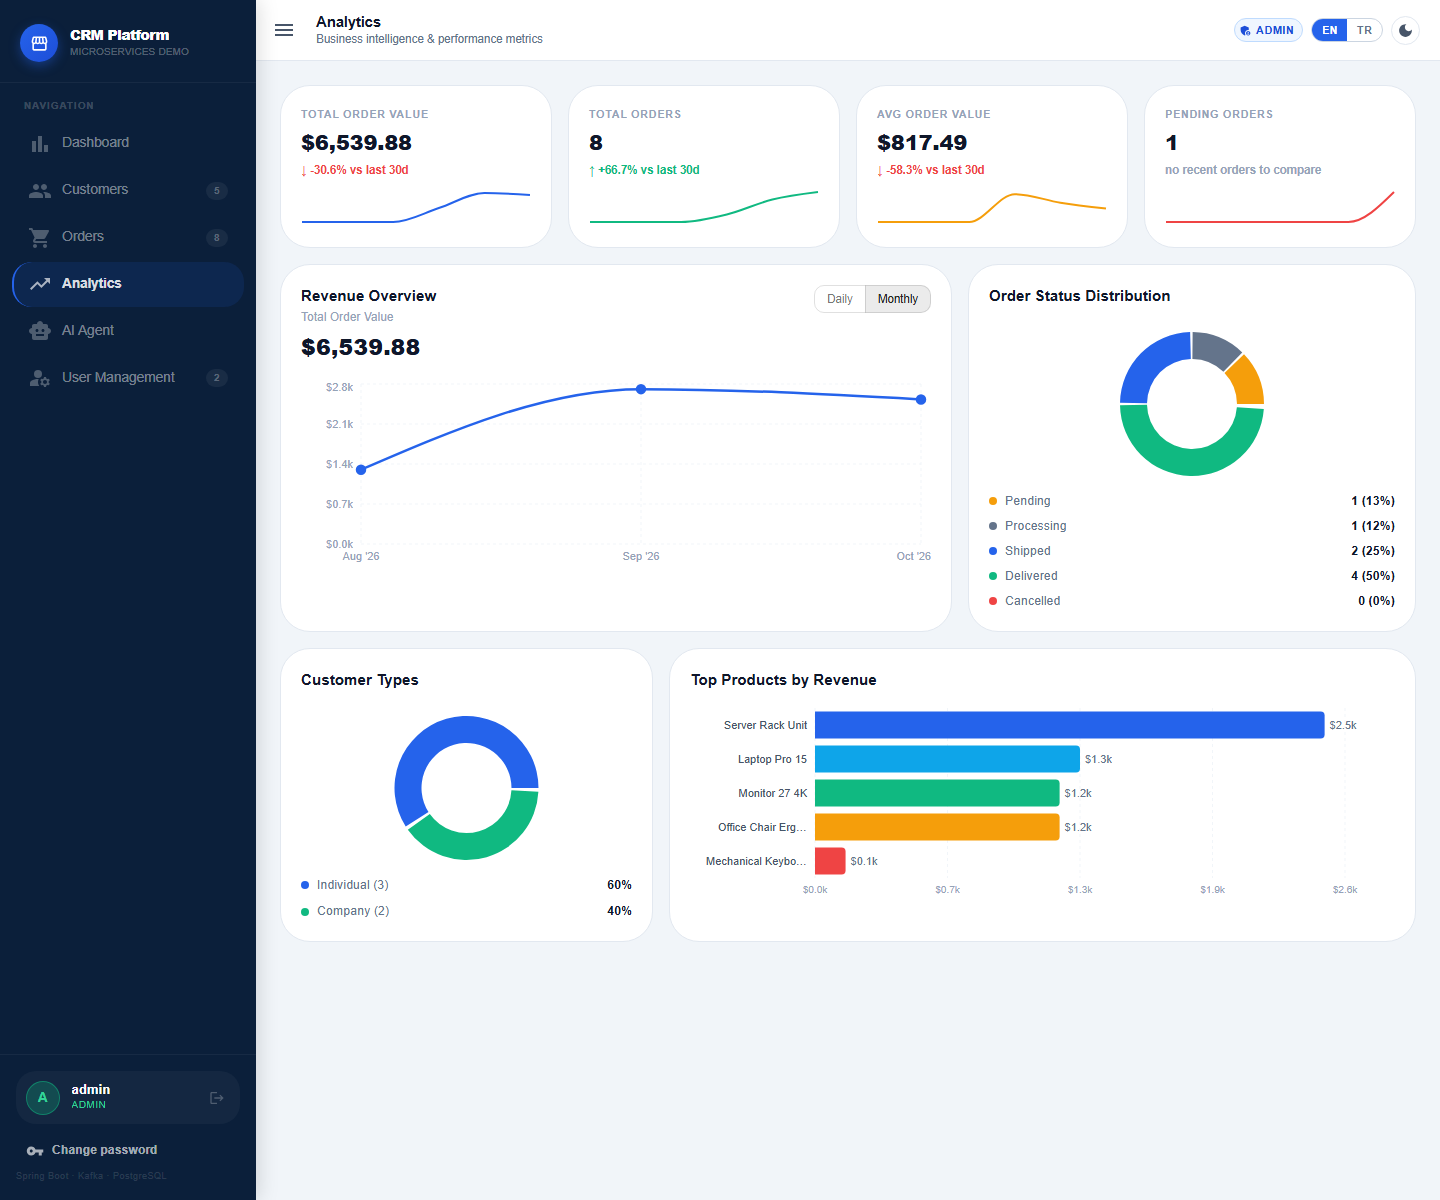
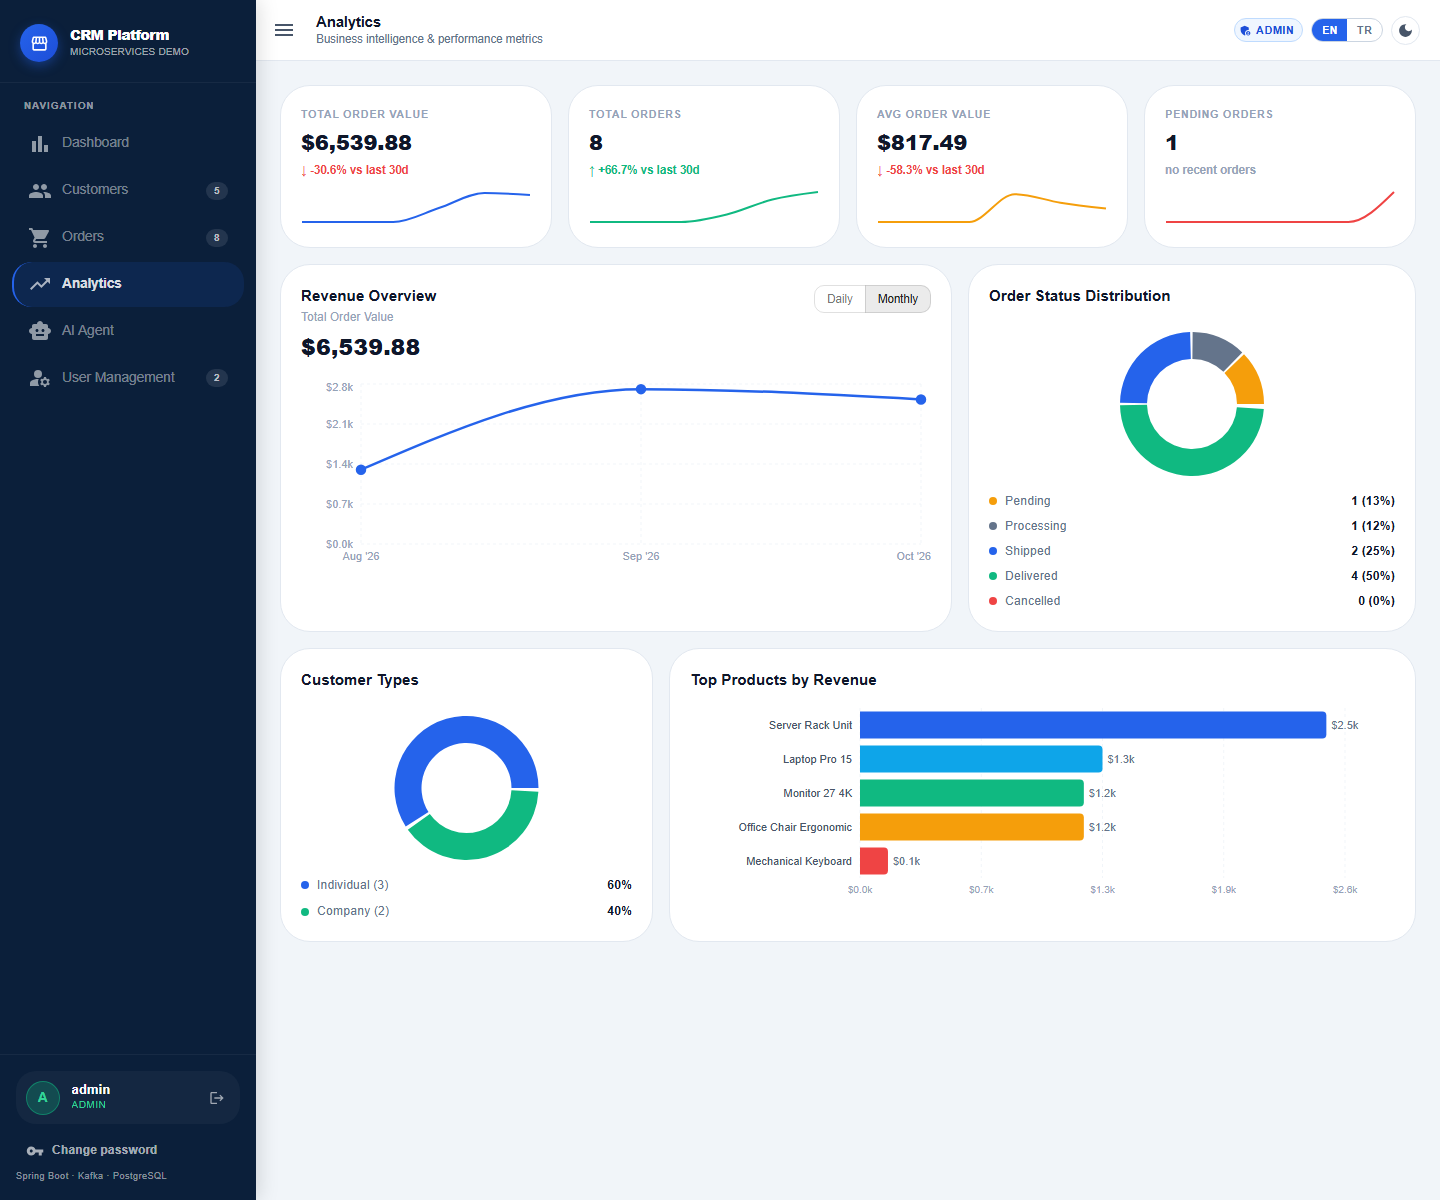
fix(ui): fit KPI trend pill on phones, larger order-status donut, refreshed screenshots
Claude-Session: https://claude.ai/code/session_015qBbo3vcrUBXtJFoZQBcCu

diff --git a/frontend/customer-app/src/app/page.tsx b/frontend/customer-app/src/app/page.tsx
@@ -1076,9 +1076,9 @@ export default function Home() {
                             </Box>
                             <Box sx={{ width: 40, height: 40, borderRadius: 2.5, bgcolor: card.bg, display: 'flex', alignItems: 'center', justifyContent: 'center', color: card.color, flexShrink: 0 }}>{card.icon}</Box>
                           </Box>
-                          <Box sx={{ display: 'flex', alignItems: 'center', justifyContent: 'space-between', mt: 0.5 }}>
+                          <Box sx={{ display: 'flex', alignItems: 'center', justifyContent: 'space-between', flexWrap: 'wrap', gap: 0.5, mt: 0.5 }}>
                             <Typography sx={{ fontSize: '0.7rem', color: '#94a3b8' }}>{card.sub}</Typography>
-                            <Box sx={{ display: 'flex', alignItems: 'center', gap: 0.3, px: 0.8, py: 0.2, borderRadius: 5, bgcolor: ('none' in card && card.none) ? 'rgba(148,163,184,0.10)' : card.up ? 'rgba(16,185,129,0.08)' : 'rgba(239,68,68,0.08)' }}>
+                            <Box sx={{ display: 'flex', alignItems: 'center', gap: 0.3, whiteSpace: 'nowrap', maxWidth: '100%', px: 0.8, py: 0.2, borderRadius: 5, bgcolor: ('none' in card && card.none) ? 'rgba(148,163,184,0.10)' : card.up ? 'rgba(16,185,129,0.08)' : 'rgba(239,68,68,0.08)' }}>
                               <Typography sx={{ fontSize: '0.67rem', fontWeight: 700, color: ('none' in card && card.none) ? '#94a3b8' : card.up ? '#10b981' : '#ef4444' }}>{('none' in card && card.none) ? '' : (('dir' in card ? card.dir : card.up) ? '↑ ' : '↓ ')}{card.trend}</Typography>
                             </Box>
                           </Box>
@@ -1217,9 +1217,9 @@ export default function Home() {
                         const allPie = ORDER_STATUSES.map((s, i) => ({ name: statusText(s, t), value: orders.filter(o => (o.status ?? 'PENDING') === s).length || 0.001, realCount: orders.filter(o => (o.status ?? 'PENDING') === s).length, color: PIE_COLORS[i] }));
                         return (
                           <>
-                            <ResponsiveContainer width="100%" height={140}>
+                            <ResponsiveContainer width="100%" height={200}>
                               <PieChart>
-                                <Pie data={allPie} cx="50%" cy="50%" innerRadius={38} outerRadius={60} paddingAngle={2} dataKey="value" animationDuration={600}>
+                                <Pie data={allPie} cx="50%" cy="50%" innerRadius={55} outerRadius={85} paddingAngle={2} dataKey="value" animationDuration={600}>
                                   {allPie.map((entry, i) => <Cell key={i} fill={entry.color} stroke="none" opacity={entry.realCount === 0 ? 0.2 : 1} />)}
                                 </Pie>
                                 <ReTooltip formatter={(_v, name, item) => [(item?.payload as { realCount?: number } | undefined)?.realCount, name]} contentStyle={{ borderRadius: 8, border: '1px solid var(--surface-2)', fontSize: 12 }} />

diff --git a/frontend/customer-app/src/app/translations.ts b/frontend/customer-app/src/app/translations.ts
@@ -164,7 +164,7 @@ export const translations = {
     addFirstCustomer: 'Add your first customer to get started',
     createFirstOrder: 'Create your first order to get started',
     vsLast30d: 'vs last 30d',
-    trendNoData: 'no recent orders to compare',
+    trendNoData: 'no recent orders',
     allTime: 'All time',
     ordersTotal: 'orders total',
     total: 'total',
@@ -328,7 +328,7 @@ export const translations = {
     totalOrders2: 'Toplam Sipariş',
     orders180: '180 sipariş toplam',
     vsLast30d: 'son 30 güne kıyasla',
-    trendNoData: 'karşılaştıracak güncel sipariş yok',
+    trendNoData: 'güncel sipariş yok',
     fulfillmentRate2: 'Tamamlanma Oranı',
     noDataYet: 'Henüz veri yok',
     justNow: 'Az önce',
